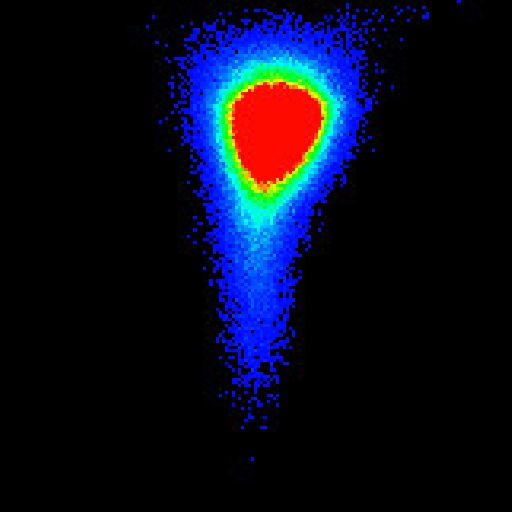
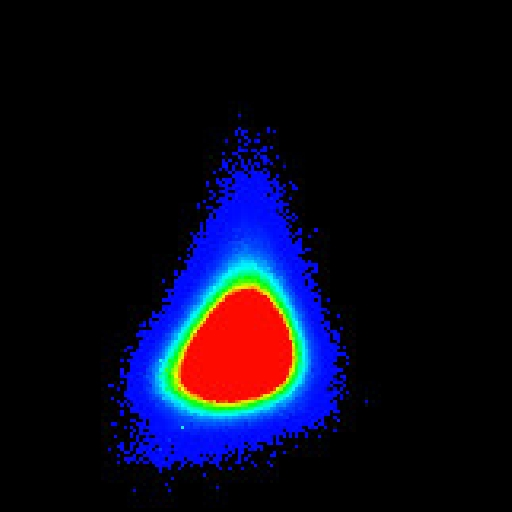
small

Changed region(s): [[0.1875, 0.0, 0.8438, 0.9688], [0.875, 0.0, 0.9062, 0.0312], [0.25, 0.9375, 0.2812, 0.9688]]

diff --git a/Interactive-Evolution-SFX/src/Heatmap.cpp b/Interactive-Evolution-SFX/src/Heatmap.cpp
@@ -101,7 +101,7 @@ void Heatmap::heatmap_1()
 	const size_t width = 161;
 	const size_t height = 161;
 
-	const size_t size = 512;
+	const size_t size = 1024;
 
 	double max = DBL_MIN;
 
@@ -115,53 +115,68 @@ void Heatmap::heatmap_1()
 		[&](const int&)
 		{
 			Evolution* evolution = new Evolution(
-				util::random(0.0, 1.0), 
-				util::random(0.0, 1.0));
+				util::random(0.01, 0.5), 
+				util::random(0.01, 0.5));
 
-			evolution->execute(
-				util::random(25LLU, GENERATIONS), 
-				util::random(0.5, QUALITY));
+			for (int i = util::random(1, 24); i > 0; --i)
+			{
+				evolution->execute(
+					util::random(45LLU, GENERATIONS),
+					util::random(1.5, QUALITY));
 
-			std::vector<SoundGene> population(evolution->output(512, 0));
+				std::vector<SoundGene> population(evolution->output(256, 0));
 
-			delete evolution;
-
-			std::for_each(
-				std::execution::par_unseq,
-				population.begin(), population.end(),
-				[&](const SoundGene& gene)
-				{
-					std::vector<std::tuple<int, int, int>> range = gene.range<int>();
-
-					double average = 0.0;
-					double size = 0.0;
-
-					for (int si = 0; si < range.size(); ++si)
+				std::for_each(
+					std::execution::par_unseq,
+					population.begin(), population.end(),
+					[&](const SoundGene& gene)
 					{
-						std::vector<bool> offsets(25, false);
-						for (int j = std::get<1>(range[si]) - 1; j >= std::get<0>(range[si]); --j)
-						{
-							Poke* poke = static_cast<Poke*>(gene.get(j));
-							if (!offsets[poke->offset])
-							{
-								offsets[poke->offset] = true;
+						std::vector<std::tuple<int, int, int>> range = gene.range<int>();
 
-								average += poke->value;
-								++size;
+						double average = 0.0;
+						double size = 0.0;
+
+						for (int si = 0; si < range.size(); ++si)
+						{
+							std::vector<bool> offsets(25, false);
+							for (int j = std::get<1>(range[si]) - 1; j >= std::get<0>(range[si]); --j)
+							{
+								Poke* poke = static_cast<Poke*>(gene.get(j));
+								if (!offsets[poke->offset])
+								{
+									offsets[poke->offset] = true;
+
+									average += poke->value;
+									++size;
+								}
 							}
 						}
+
+						if (size <= DBL_EPSILON)
+							return;
+
+						average /= size;
+
+						int x = std::clamp<double>(average / POKE_VALUE, 0.0, 1.0) * (width - 1);
+						int y = (1.0 - std::clamp<double>(size / 161, 0.0, 1.0)) * (height - 1);
+
+						++heatmap[x + y * width];
+					});
+
+				std::vector<size_t> indices;
+				for (int j = util::random(1, 3); j > 0; --j)
+				{
+					size_t index = util::random<size_t>(0, population.size() - 1);
+
+					if (std::find(indices.begin(), indices.end(), index) == indices.end())
+					{
+						evolution->add_model(population[index]);
+						indices.push_back(index);
 					}
+				}
+			}
 
-					if (size <= DBL_EPSILON)
-						return;
-
-					average /= size;
-
-					int x = (1.0 - std::clamp<double>(average / POKE_VALUE, 0.0, 1.0)) * (width - 1);
-					int y = std::clamp<double>(size / 161, 0.0, 1.0) * (height - 1);
-
-					++heatmap[x + y * width];
-				});
+			delete evolution;
 		});
 
 	sf::Image image;
